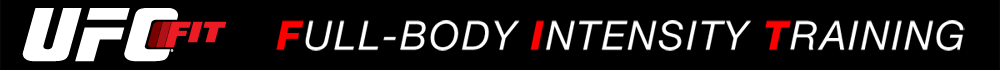
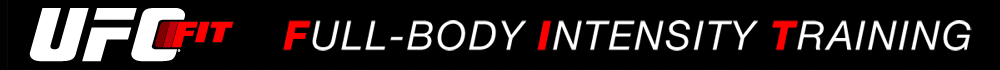
Fix preorder header which breaks the layout on small and mobile screens

Changed region(s): [[0.248, 0.2857, 0.992, 0.7429], [0.0, 0.1143, 0.248, 0.8857]]

diff --git a/app/assets/stylesheets/site/preorder/_header.css.scss b/app/assets/stylesheets/site/preorder/_header.css.scss
@@ -1,4 +1,5 @@
 #preorder-header-wrapper {
   background-color:black;
   nav {background-color:black;}
+  img {display: block;}
 }
